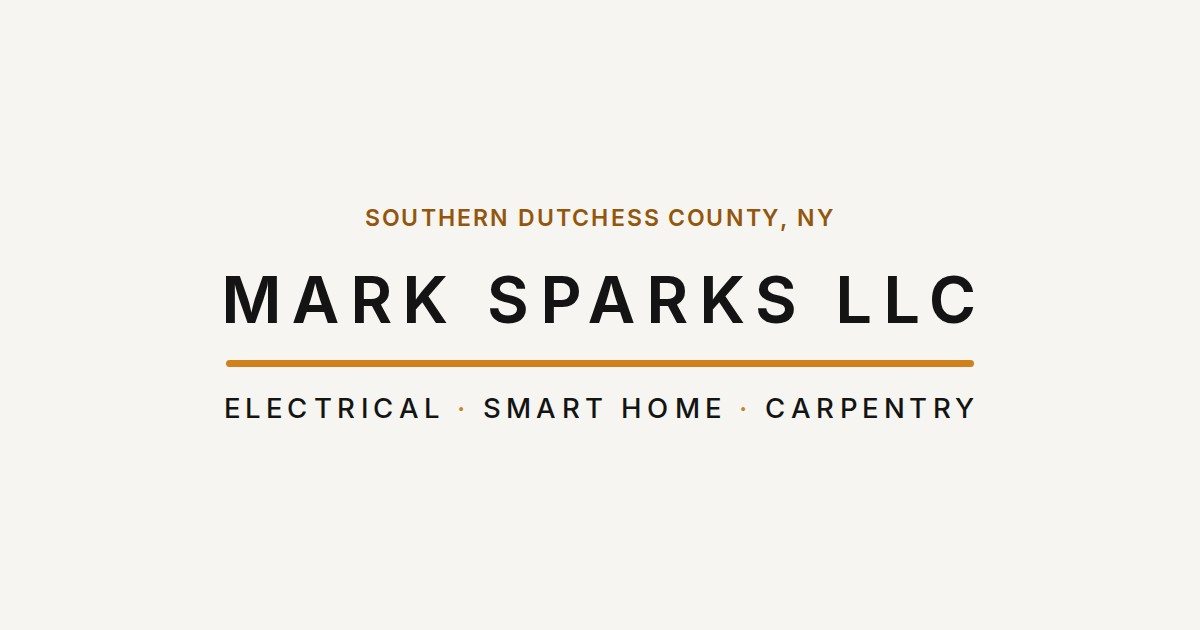
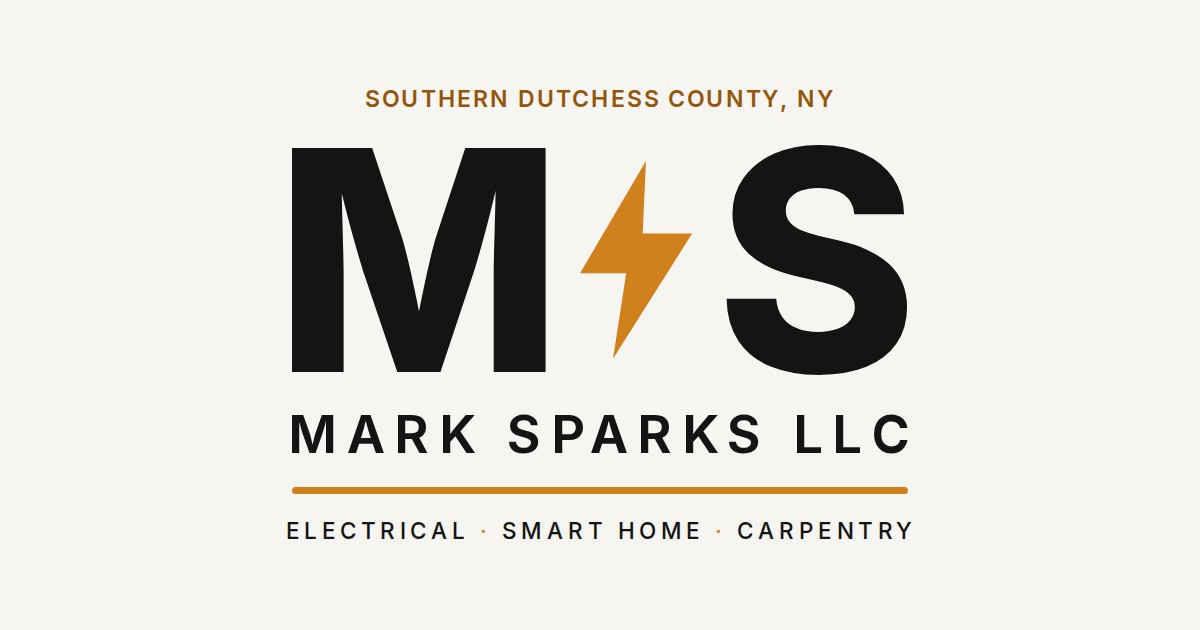
Add the M⚡S mark to the link-preview card
Same lockup as the hero: the mark sits over the name at exactly its ink
width, between the location line and MARK SPARKS LLC. Name drops from 64px
to 52px so the stack fits the 630px card.

diff --git a/tools/og.html b/tools/og.html
@@ -1,6 +1,6 @@
 <!doctype html>
 <!-- Link-preview card, rendered to src/photos/og.jpg at 1200x630 by tools/render_images.js.
-     Same lockup as the Google cover. Lines are positioned by their measured ink, so the name,
+     M⚡S mark over the Google cover's lockup, as in the Google logo and the site hero. Lines are positioned by their measured ink, so the name,
      rule, and trades line share exact edges and everything is centered on what's visible. -->
 <meta charset="utf-8">
 <style>
@@ -13,12 +13,19 @@
   }
   .line { position: absolute; left: 0; margin: 0; line-height: 1; white-space: nowrap; text-transform: uppercase; }
   .eyebrow { color: #94560c; font-weight: 600; font-size: 23px; letter-spacing: 0.08em; }
-  .name { font-size: 64px; font-weight: 650; letter-spacing: 0.18em; }
+  .name { font-size: 52px; font-weight: 650; letter-spacing: 0.18em; }
   .trades { font-weight: 500; letter-spacing: 0.2em; }
   .dot { color: #d0801c; }
+  .mark { position: absolute; fill: #141414; }
+  .mark .bolt { fill: #d0801c; }
   .rule { position: absolute; height: 7px; border-radius: 4px; background: #d0801c; }
 </style>
 <p class="line eyebrow" id="eyebrow">Southern Dutchess County, NY</p>
+<svg class="mark" id="mark" viewBox="66.56 185.18 378.88 141.64" aria-hidden="true">
+  <path d="M66.56 324.94523990199724V187.02958608007768H115.94021462965205L134.46822967840794 242.6229584937588Q135.9366161333049 247.4668609926691 137.82837635173786 255.32917965093458Q139.72013657017078 263.1914983092 141.6313337743917 272.23822739340756Q143.54253097861263 281.284956477615 145.18233916284117 289.7220771706158Q146.82214734706972 298.1591978636166 147.82661664982226 304.21897831087534H141.75202330422428Q142.78277956959028 298.23805875145695 144.38945081437993 289.8272250210696Q145.99612205916955 281.41639129068227 147.9073192633905 272.35651872516803Q149.8185164676114 263.2966461596538 151.69028322791218 255.39489705746817Q153.56204998821295 247.49314795528255 155.03043644310992 242.6229584937588L173.29446892104303 187.02958608007768H222.76724439218629V324.94523990199724H190.81183980133898V264.40128048435696Q190.81183980133898 259.8121123813719 190.99066797984017 252.6610388220065Q191.16949615834133 245.50996526264112 191.40774823889484 237.10765092611175Q191.64600031944832 228.70533658958237 191.85111546056294 220.1841744489483Q192.05623060167753 211.66301230831425 192.08251756429098 204.30738008017843H194.02740818029497Q192.28245214561267 212.41719899389494 190.14040931000784 221.08978940572837Q187.99836647440304 229.7623798175618 185.8163367225339 237.97216602193913Q183.63430697066474 246.18195222631647 181.65054238308477 253.02905629859472Q179.6667777955048 259.876160370873 178.23837825687215 264.40128048435696L158.01943866073998 324.94523990199724H131.41406652658844L110.86487048075573 264.40128048435696Q109.43647094212307 259.90244733348646 107.44585637771765 253.09477370512835Q105.45524181331223 246.28710007677023 103.2069381825653 238.10360083500635Q100.95863455181838 229.92010159324246 98.77031129546796 221.22122421879558Q96.58198803911753 212.5223468443487 94.66561027510367 204.30738008017843H97.06071808960121Q97.1132920148281 211.47900357002015 97.31840715594271 219.94759178542733Q97.52352229705733 228.4161800008345 97.74863089630409 236.85792478128405Q97.97373949555087 245.2996695617336 98.16571115535876 252.5164605276326Q98.35768281516665 259.7332514935316 98.35768281516665 264.40128048435696V324.94523990199724Z"/>
+  <path class="bolt" transform="translate(244.014 195.093) scale(4.06044)" d="M10 0 L0 17 H7 L5 30 L17 11 H9.5 Z"/>
+  <path d="M391.1893303839493 326.82163074974676Q374.09999690089603 326.82163074974676 361.4084163333641 321.6439606583755Q348.7168357658321 316.4662905670042 341.6536989605092 306.05559409731393Q334.59056215518626 295.6448976276236 334.28770561278753 279.96581195079875H364.8628328114757Q365.33822402789434 286.68054057401685 368.6476385017253 291.22805234370503Q371.9570529755562 295.7755641133933 377.64620589320134 298.0627417157162Q383.3353588108464 300.3499193180391 390.79168711068263 300.3499193180391Q397.75447246169597 300.3499193180391 402.7866236227004 298.42206748975104Q407.8187747837048 296.494215661463 410.54542430128663 293.0281923566397Q413.2720738188684 289.56216905181645 413.2720738188684 285.0333654868767Q413.2720738188684 280.8873922968643 410.7825634371518 278.014495067876Q408.2930530554351 275.1415978388877 403.2844064953233 272.9875244666645Q398.27575993521145 270.83345109444133 390.6720709792804 269.1284819760234L375.99933587719397 265.6670827586489Q358.2117284678519 261.5429447524966 348.0609469538798 252.31888459812504Q337.9101654399077 243.09482444375345 337.9101654399077 227.60642517335273Q337.9101654399077 214.88337708341442 344.8007675712107 205.34109101596067Q351.6913697025138 195.79880494850693 363.7207679536121 190.48858709938008Q375.7501662047104 185.17836925025327 391.26596538241296 185.17836925025327Q407.1257209634669 185.17836925025327 418.81116281121376 190.55486097825786Q430.4966046589607 195.9313527062625 436.9569830499023 205.54102559728233Q443.417361440844 215.1506984883022 443.5887831701756 227.79711157977687H412.98514311949725Q412.3120432111336 220.09383949683377 406.705646487738 215.84567312678388Q401.0992497643425 211.59750675673402 391.1082436067323 211.59750675673402Q384.47571470541953 211.59750675673402 379.9189547608338 213.38651732278527Q375.362194816248 215.17552788883648 373.0515126130325 218.33128820209137Q370.740830409817 221.48704851534626 370.740830409817 225.51417390125397Q370.740830409817 229.88414274582476 373.37436261356345 232.8890312602244Q376.0078948173099 235.89391977462407 380.705165441165 237.882864921997Q385.4024360650201 239.87181006936993 391.4611035675905 241.26022269173825L403.46327422008244 244.06110900971163Q413.1921790788557 246.20482126234896 420.9632221490137 249.79063300726983Q428.7342652191717 253.37644475219068 434.21367890825337 258.40953654918803Q439.69309259733507 263.44262834618536 442.5665462986675 270.0938654522466Q445.44 276.7451025583078 445.44 285.112226374717Q445.44 298.06149600859044 438.96592165540744 307.4306909296801Q432.4918433108149 316.7998858507698 420.3641471860882 321.81075830025827Q408.23645106136155 326.82163074974676 391.1893303839493 326.82163074974676Z"/>
+</svg>
 <p class="line name" id="name">Mark Sparks LLC</p>
 <div class="rule" id="rule"></div>
 <p class="line trades" id="trades">Electrical <span class="dot">·</span> Smart Home <span class="dot">·</span> Carpentry</p>
@@ -43,7 +50,7 @@
     return i.right - i.left;
   }
   document.fonts.ready.then(() => {
-    const W = 1200, H = 630, GAP_EYE = 38, GAP = 28, RULE_H = 7;
+    const W = 1200, H = 630, GAP_EYE = 34, GAP_MARK = 34, GAP = 26, RULE_H = 7;
     const name = document.getElementById("name"), trades = document.getElementById("trades");
     // Scale the trades line so its ink is exactly as wide as the name's.
     trades.style.fontSize = "30px";
@@ -53,10 +60,14 @@
     const t1 = ink(trades).right - ink(trades).left;
     trades.style.fontSize = (parseFloat(trades.style.fontSize) * nameW / t1) + "px";
     // Vertical: stack by line boxes, then center the whole block.
+    // The mark matches the name's ink width, like the hero and the Google logo.
+    const mark = document.getElementById("mark"), hM = nameW * 141.64 / 378.88;
     const hE = document.getElementById("eyebrow").offsetHeight, hN = name.offsetHeight, hT = trades.offsetHeight;
-    const total = hE + GAP_EYE + hN + GAP + RULE_H + GAP + hT;
+    const total = hE + GAP_EYE + hM + GAP_MARK + hN + GAP + RULE_H + GAP + hT;
     let y = (H - total) / 2;
     placeCentered(document.getElementById("eyebrow"), y); y += hE + GAP_EYE;
+    Object.assign(mark.style, { left: (W - nameW) / 2 + "px", top: y + "px", width: nameW + "px", height: hM + "px" });
+    y += hM + GAP_MARK;
     placeCentered(name, y); y += hN + GAP;
     const rule = document.getElementById("rule");
     rule.style.left = (W - nameW) / 2 + "px"; rule.style.width = nameW + "px"; rule.style.top = y + "px"; y += RULE_H + GAP;
